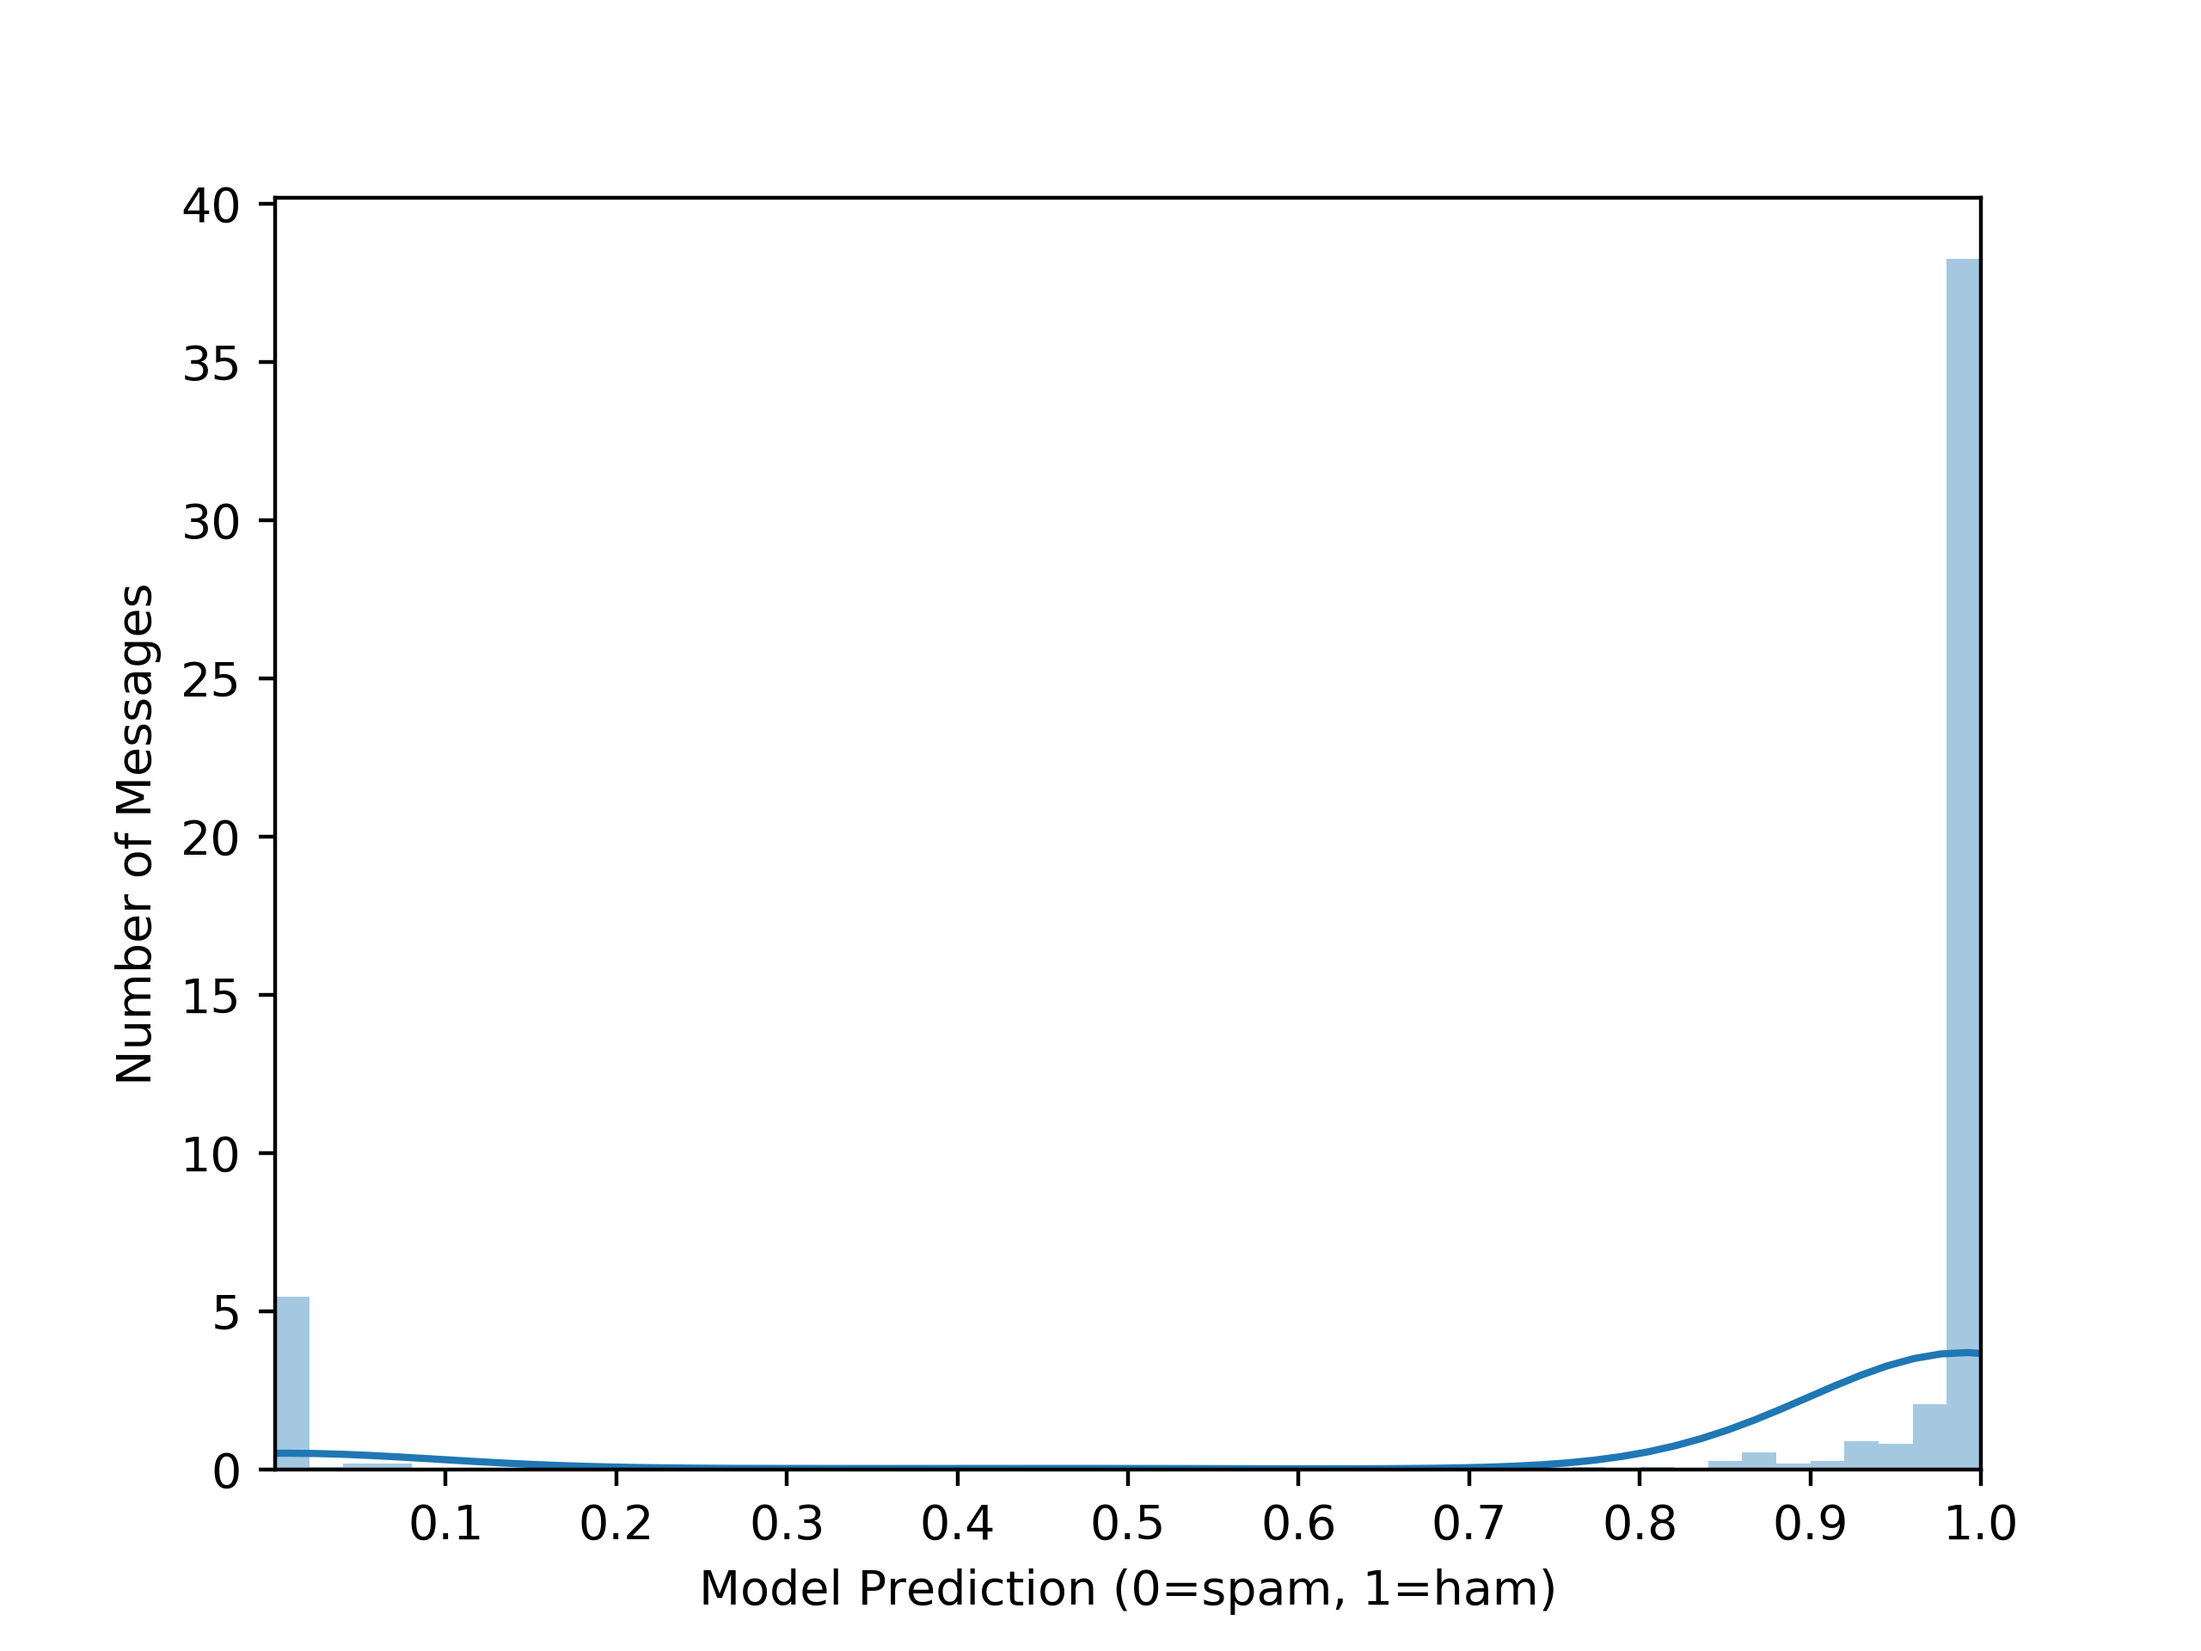
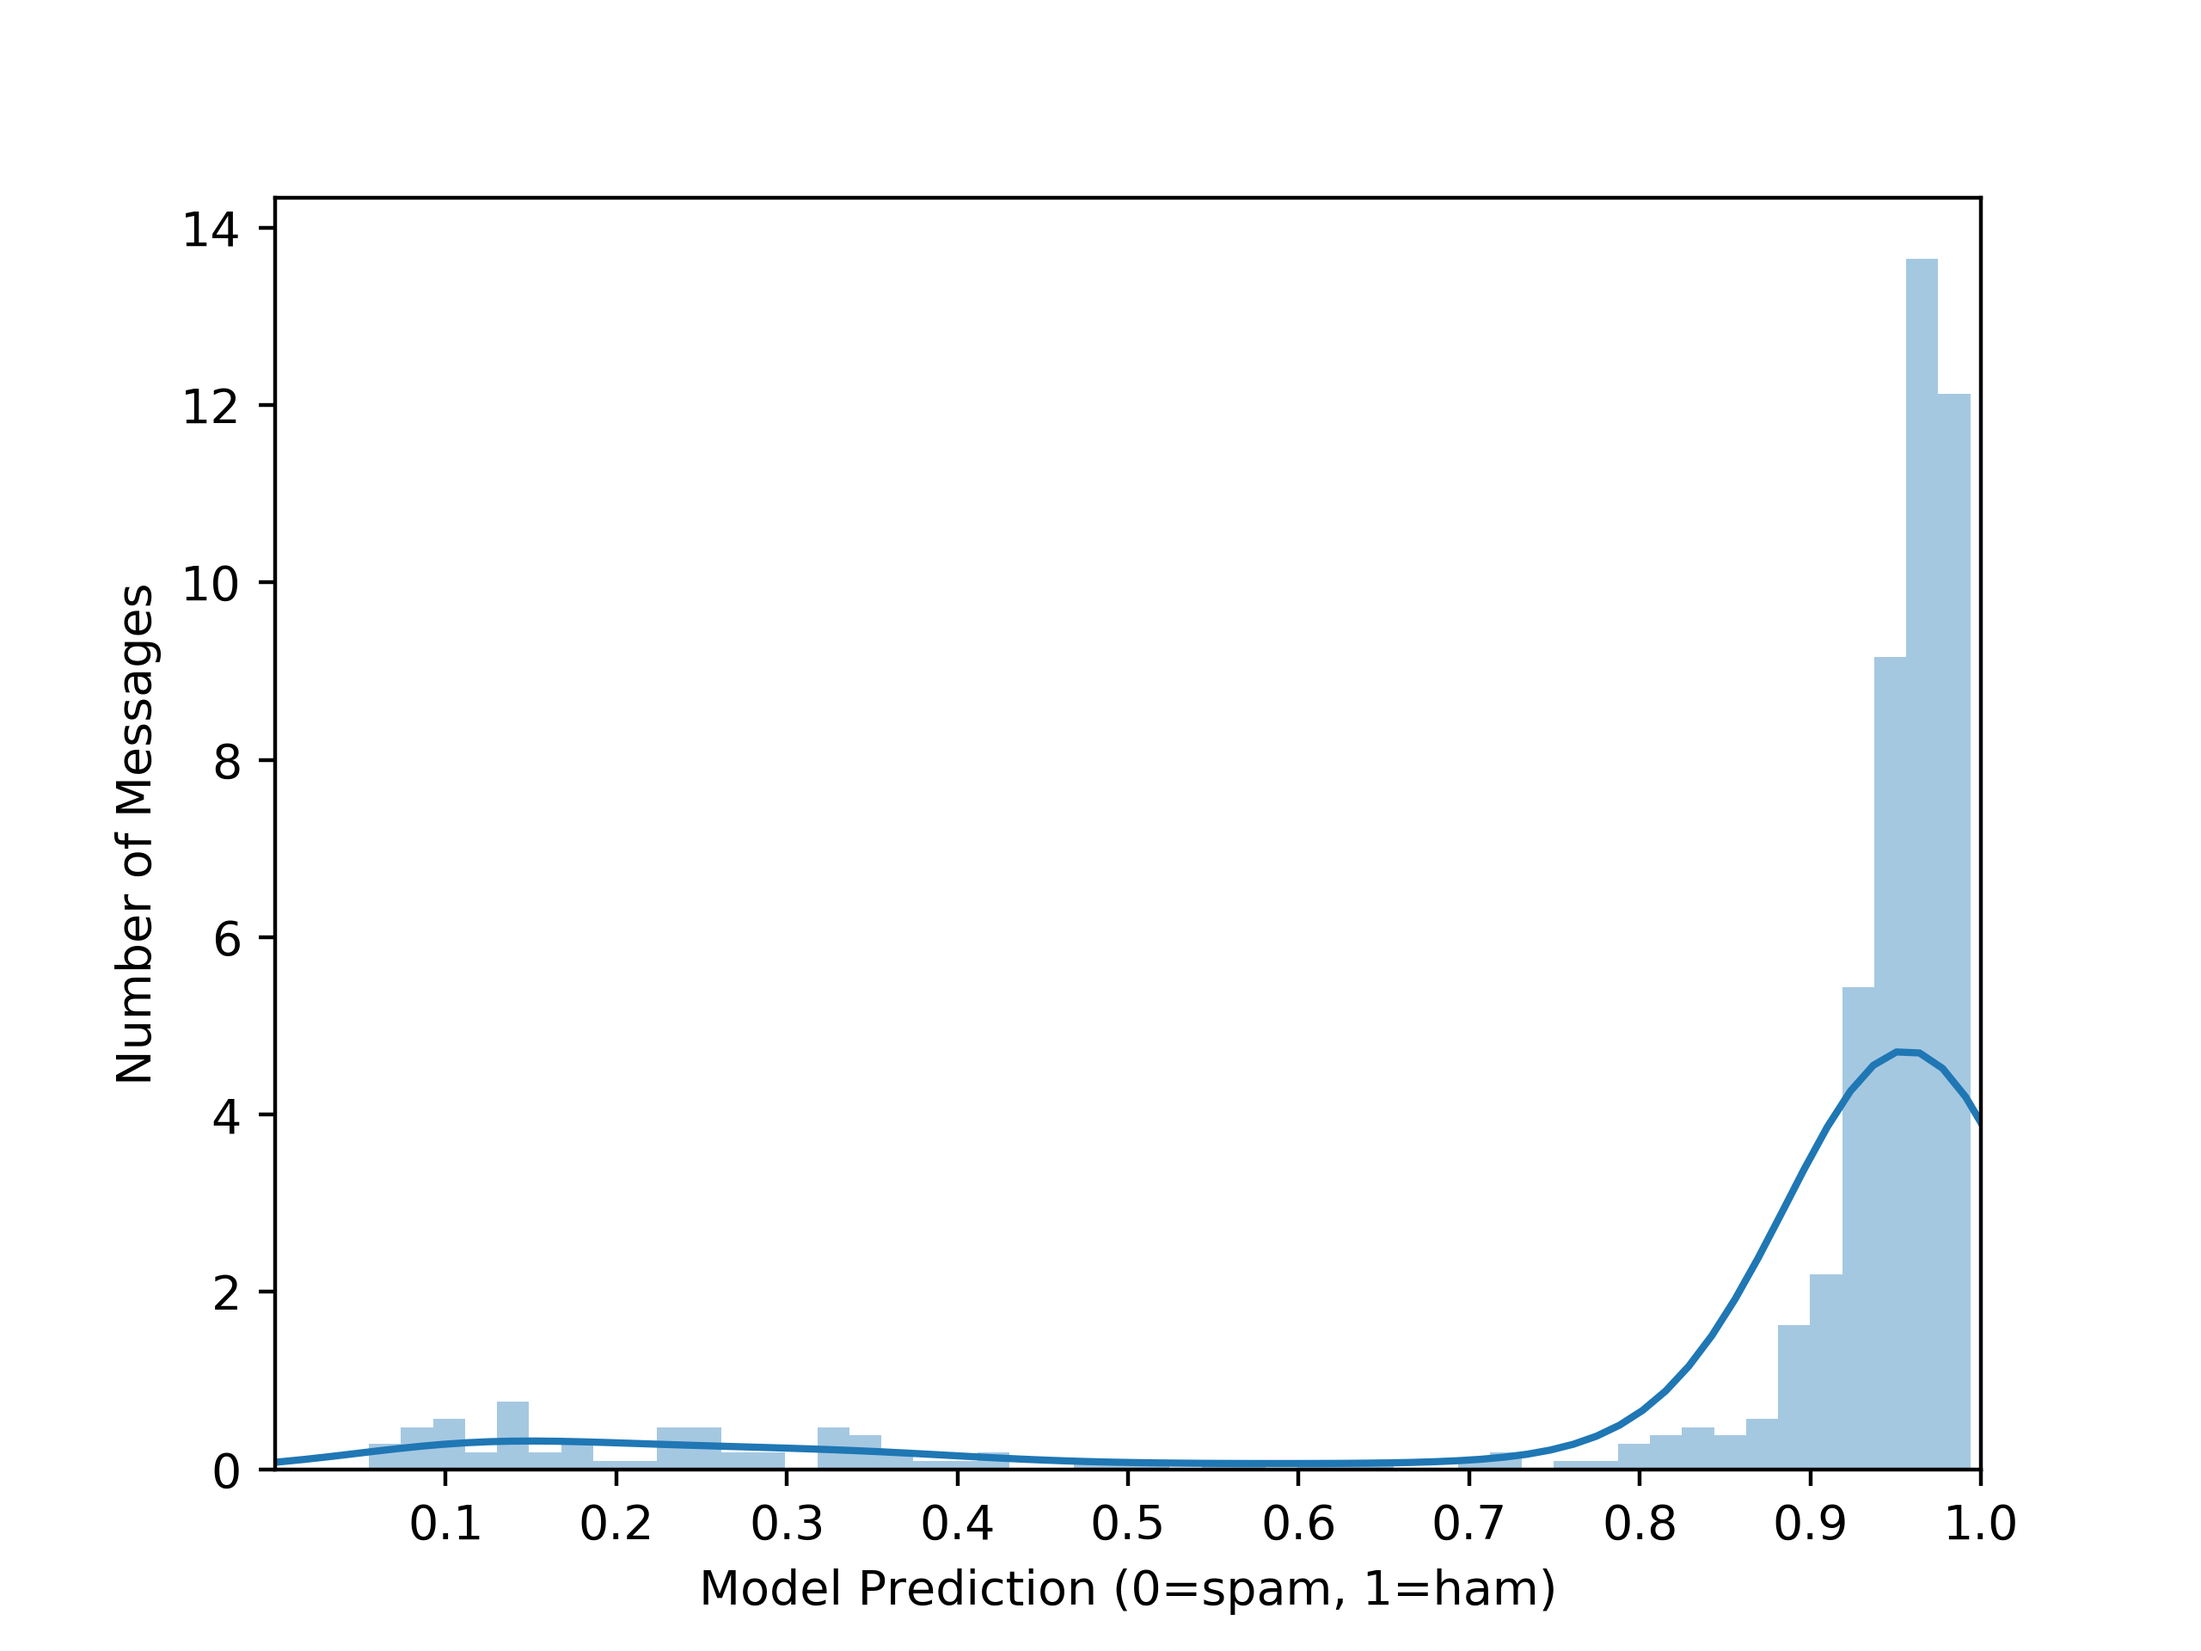
better viz

diff --git a/02_scripts/04_viz.py b/02_scripts/04_viz.py
@@ -23,10 +23,10 @@ if __name__ == "__main__":
     # pp.pprint(df_log.head())
     # pp.pprint(df_svm.head())
     # print(list(df_all.columns.values))
-    # pp.pprint(df_all.head())
+    pp.pprint(df_all.head())
 
-    # distribution of y_pred_proba_x
-    plot = sns.distplot(df_all['y_pred_proba_y'])
+    # distribution of Logistic model predictions
+    plot = sns.distplot(df_all['y_pred_proba_x'])
     plot.set(xlim=(0,1), ylim=(0,None))
     plt.xticks([0.1,0.2,0.3,0.4,0.5,0.6,0.7,0.8,0.9,1])
     plt.xlabel("Model Prediction (0=spam, 1=ham)")
@@ -34,8 +34,8 @@ if __name__ == "__main__":
     plt.savefig("../03_results/02_visualizations/plot_01.png", dpi=400)
     plt.clf()
 
-    # distribution of y_pred_proba_y
-    plot = sns.distplot(df_all['y_pred_proba_x'])
+    # distribution of SVM model predictions
+    plot = sns.distplot(df_all['y_pred_proba_y'])
     plot.set(xlim=(0,1), ylim=(0,None))
     plt.xticks([0.1,0.2,0.3,0.4,0.5,0.6,0.7,0.8,0.9,1])
     plt.xlabel("Model Prediction (0=spam, 1=ham)")
